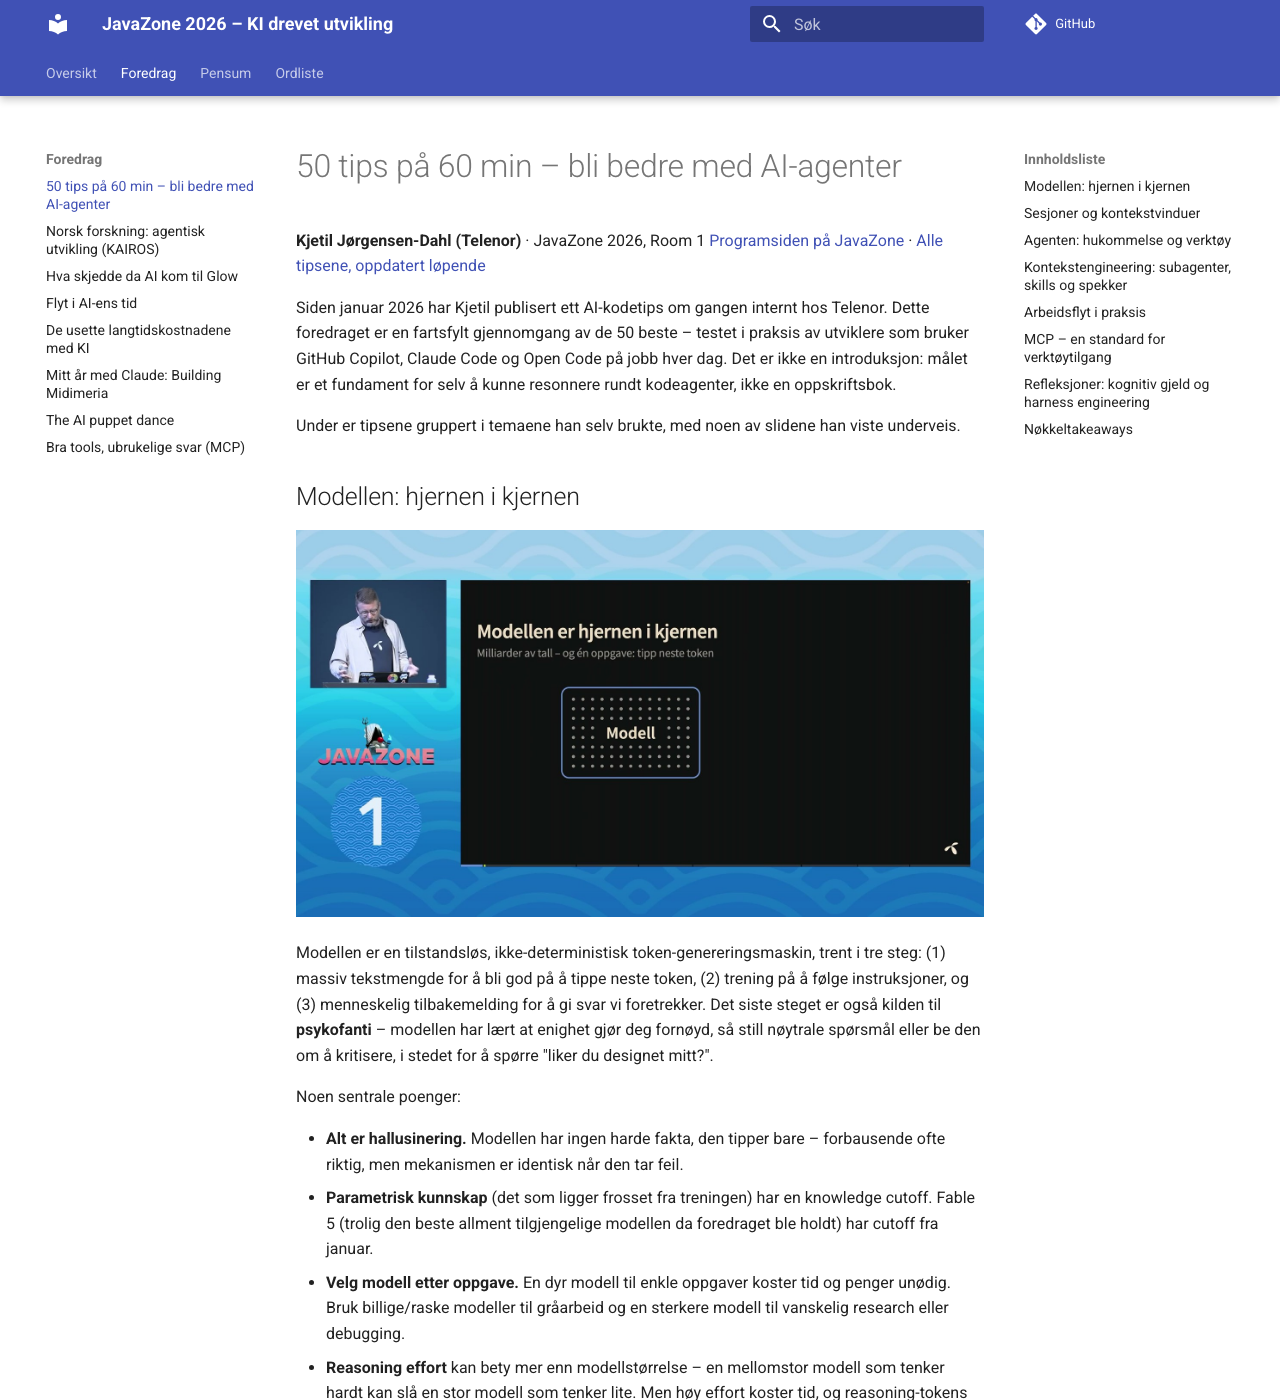
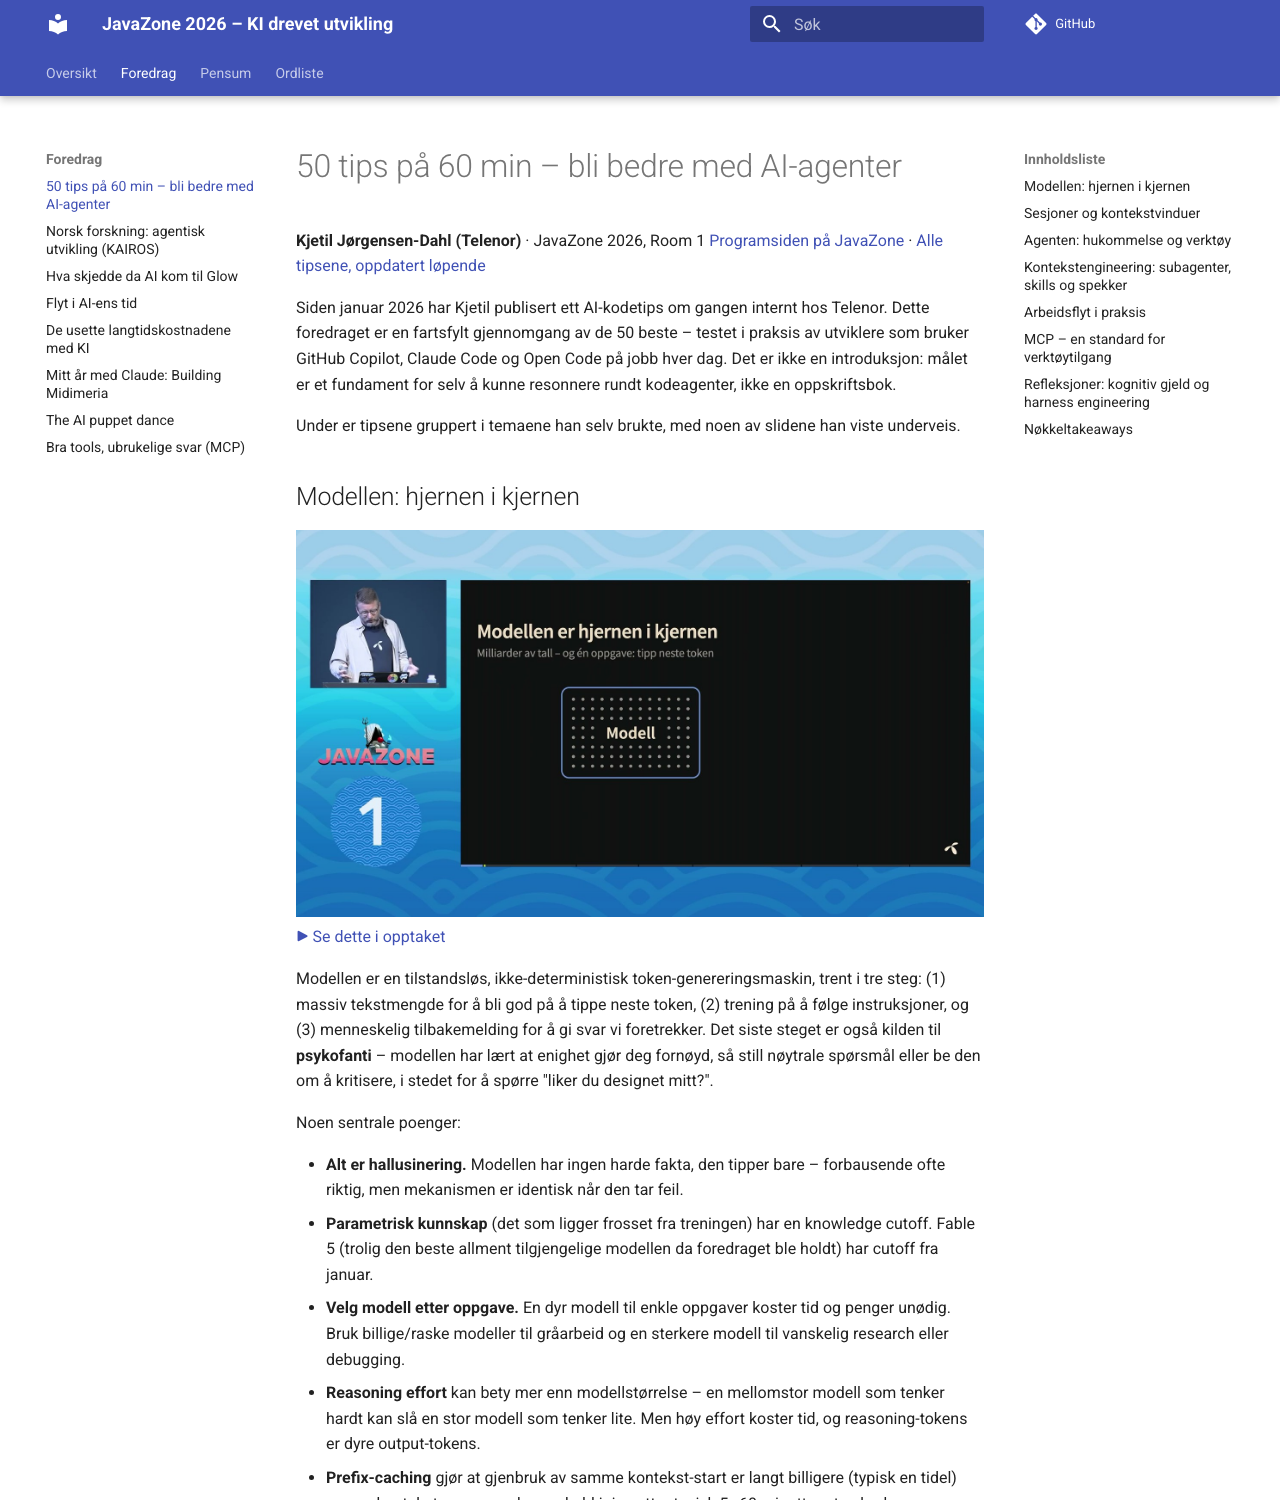
Update example screenshot now that javazone-2026 has timestamp links
javazone-2026 was retrofitted to add the "watch this in the
recording" timestamp links the skill's own verification checklist
calls for. Re-captures the README's example screenshot to show the
screenshot and its timestamp link together, and updates the
caption to point it out.

Claude-Session: https://claude.ai/code/session_01CYTv7MVFf8pCpYsHHJx13M

Changed region(s): [[0.2188, 0.1536, 0.7812, 1.0], [0.0, 0.0, 1.0, 0.3379], [0.5938, 0.0, 0.6562, 0.0307]]

diff --git a/README.md b/README.md
@@ -11,8 +11,8 @@ to the exact timestamp in the source recording.
 📖 **Full docs, security considerations, and use cases:**
 https://hkvalheim.github.io/conference-notes/
 
-![A talk page produced by this skill: an extracted slide screenshot inline with the write-up](assets/example-output.png)
-*A real talk page from [javazone-2026](https://hkvalheim.github.io/javazone-2026/), a site generated with this skill — one of the [use cases](https://hkvalheim.github.io/conference-notes/use-cases/standalone-site/) on the docs site.*
+![A talk page produced by this skill: an extracted slide screenshot with a link back to the exact moment in the recording](assets/example-output.png)
+*A real talk page from [javazone-2026](https://hkvalheim.github.io/javazone-2026/), a site generated with this skill — note the "▶ Se dette i opptaket" link right under the screenshot, linking back to that exact second in the recording. One of the [use cases](https://hkvalheim.github.io/conference-notes/use-cases/standalone-site/) on the docs site.*
 
 ## What it does
 
